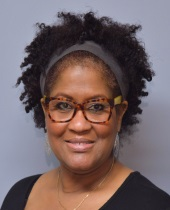
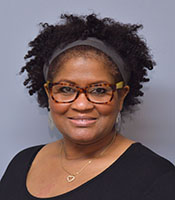
Provider Picture Update
*Picture sizes were changed to 175px wide and 200px tall so they
wouldn't look stretched.
*Sidebar links changed to just the anchor so that they could be used
when testing. Also makes the code less.

diff --git a/css/vpchc_styles_2.0.css b/css/vpchc_styles_2.0.css
@@ -440,6 +440,11 @@ footer { position: relative;}
 \*------------------------------------*/
 
 #tab-content { width: 1000px;}
+#tab-content hr{
+    height: 5px;
+    color: black;
+    background-color: black;
+}
 .tab { margin-top: 10px;}
 .tab-bar { height: 75px;}
 .tab-bar p {
@@ -538,10 +543,11 @@ footer { position: relative;}
     font-family: "Franklin Gothic Medium","Georgia", Times, serif;
     color: #3a4e8c;
 }
+.tab-box-location a { color: #3a4e8c;}
 .tab-box-pic { float: left;}
 .tab-box-pic img {
-    height: 210px;
-    width: 170px;
+    height: 200px;
+    width: 175px;
 }
 .tab-box-mobilepic{ display: none;}
 /*----Board----*/

diff --git a/about_us/providers_&_team.php b/about_us/providers_&_team.php
@@ -43,15 +43,15 @@
 <header><?php include("../php/includes/header.php"); ?></header>
 <main id="masterbox">
   <div id="sidebar" class="large-sidebar">
-    <a href="/about_us/providers_&_team.php#physicians"><button class="sidebar-section large-bar">Physicians</button></a>
-    <a href="/about_us/providers_&_team.php#nps"><button class="sidebar-section large-bar">Nurse Practitioners</button></a>
-    <a href="/about_us/providers_&_team.php#bh"><button class="sidebar-section large-bar">Behavioral Health</button></a>
-    <a href="/about_us/providers_&_team.php#dental"><button class="sidebar-section large-bar">Dental</button></a>
-    <a href="/about_us/providers_&_team.php#chw"><button class="sidebar-section large-bar">Comm. Health Workers</button></a>
-    <a href="/about_us/providers_&_team.php#patcare"><button class="sidebar-section large-bar">Patient Care Coord.</button></a>
-    <a href="/about_us/providers_&_team.php#directors"><button class="sidebar-section large-bar">Directors</button></a>
-    <a href="/about_us/providers_&_team.php#man"><button class="sidebar-section large-bar">Managers</button></a>
-    <a href="/about_us/providers_&_team.php#siteman"><button class="sidebar-section large-bar">Site Managers</button></a>
+    <a href="#physicians"><button class="sidebar-section large-bar">Physicians</button></a>
+    <a href="#nps"><button class="sidebar-section large-bar">Nurse Practitioners</button></a>
+    <a href="#bh"><button class="sidebar-section large-bar">Behavioral Health</button></a>
+    <a href="#dental"><button class="sidebar-section large-bar">Dental</button></a>
+    <a href="#chw"><button class="sidebar-section large-bar">Comm. Health Workers</button></a>
+    <a href="#patcare"><button class="sidebar-section large-bar">Patient Care Coord.</button></a>
+    <a href="#directors"><button class="sidebar-section large-bar">Directors</button></a>
+    <a href="#man"><button class="sidebar-section large-bar">Managers</button></a>
+    <a href="#siteman"><button class="sidebar-section large-bar">Site Managers</button></a>
   </div>
   <h1>Providers & Team</h1>
   <div id="tab-content" class="tab-team">
@@ -133,7 +133,7 @@
       </div>
       <div class="tab-box tab-box-large">
         <div class="tab-box-pic">
-            <img src="/images/providers/noimage.jpg">
+            <img src="/images/providers/waltz.jpg">
         </div>
         <div class="tab-box-text">
           <div class="tab-box-title"><p>Physician</p></div>
@@ -171,7 +171,7 @@
           <p class="tab-box-bio-title-personal">Personal</p>
           <p class="tab-box-bio-personal">Dr. Waltz has been practicing medicine in the Wabash Valley for over 30 years. He enjoys teaching and mentoring other primary care providers in his role as Chief Medical Officer at Valley Professionals, as well as continuing to provide excellent care to his patients in Rockville.</p>
           </div>
-          <p class="tab-box-location">Currently providing care in Rockville</p>
+          <p class="tab-box-location"><a href="http://www.uhfmr.org/">Click Here to see more on the Residency program.</a></p>
         </div>
       </div>
     </div>
@@ -230,7 +230,7 @@
       </div>
       <div class="tab-box tab-box-small">
         <div class="tab-box-pic">
-          <img src="/images/providers/noimage.jpg">
+          <img src="/images/providers/busenbark.jpg">
         </div>
         <div class="tab-box-text">
           <div class="tab-box-title"><p>Nurse Practitioner</p></div>
@@ -345,7 +345,7 @@
       </div>
       <div class="tab-box tab-box-medium">
         <div class="tab-box-pic">
-          <img src="/images/providers/noimage.jpg">
+          <img src="/images/providers/morson.jpg">
         </div>
         <div class="tab-box-text">
           <div class="tab-box-title"><p>Nurse Practitioner</p></div>
@@ -414,7 +414,7 @@
       </div>
       <div class="tab-box tab-box-large">
         <div class="tab-box-pic">
-          <img src="/images/providers/noimage.jpg">
+          <img src="/images/providers/ryley.jpg">
         </div>
         <div class="tab-box-text">
           <div class="tab-box-title"><p>Nurse Practitioner</p></div>
@@ -485,7 +485,7 @@
       </div>
       <div class="tab-box tab-box-jumbo">
         <div class="tab-box-pic">
-          <img src="/images/providers/noimage.jpg">
+          <img src="/images/providers/wernz.jpg">
         </div>
         <div class="tab-box-text">
           <div class="tab-box-title"><p>Psychologist</p></div>
@@ -692,7 +692,7 @@
       </div>
       <div class="tab-box tab-box-xlarge">
         <div class="tab-box-pic">
-          <img src="/images/providers/noimage.jpg">
+          <img src="/images/providers/sentell.jpg">
         </div>
         <div class="tab-box-text">
           <div class="tab-box-title"><p>Mental Health<br>Counselor</p></div>
@@ -843,8 +843,18 @@
         <p class="tab-simple">Kristin<span>Crawfordsville</span></p>
       </div>
     </div>
+    <div class="tab">
+      <div class="tab-bar team-ps">
+        <p class="tab-simple">Lacey<span>Clinton</span></p>
+      </div>
+    </div>
     <h3 id="patcare">Patient Care Coordinators</h3>
     <hr>
+    <div class="tab">
+      <div class="tab-bar team-ps">
+        <p class="tab-simple">Beth<span>Crawfordsville</span></p>
+      </div>
+    </div>
     <div class="tab">
       <div class="tab-bar team-ps">
         <p class="tab-simple">Holli<span>Bloomingdale/Cayuga</span></p>
@@ -852,7 +862,12 @@
     </div>
     <div class="tab">
       <div class="tab-bar team-ps">
-        <p class="tab-simple">Beth<span>Crawfordsville</span></p>
+        <p class="tab-simple">Jana<span>Clinton</span></p>
+      </div>
+    </div>
+    <div class="tab">
+      <div class="tab-bar team-ps">
+        <p class="tab-simple">Jill<span>Clinton</span></p>
       </div>
     </div>
     <div class="tab">
